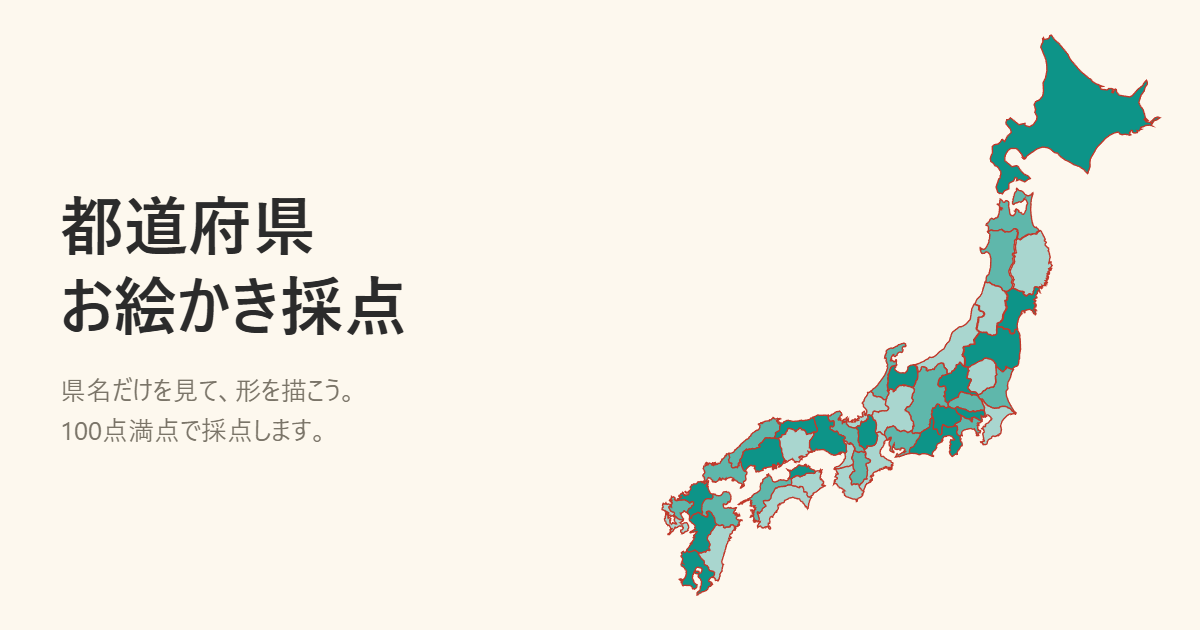
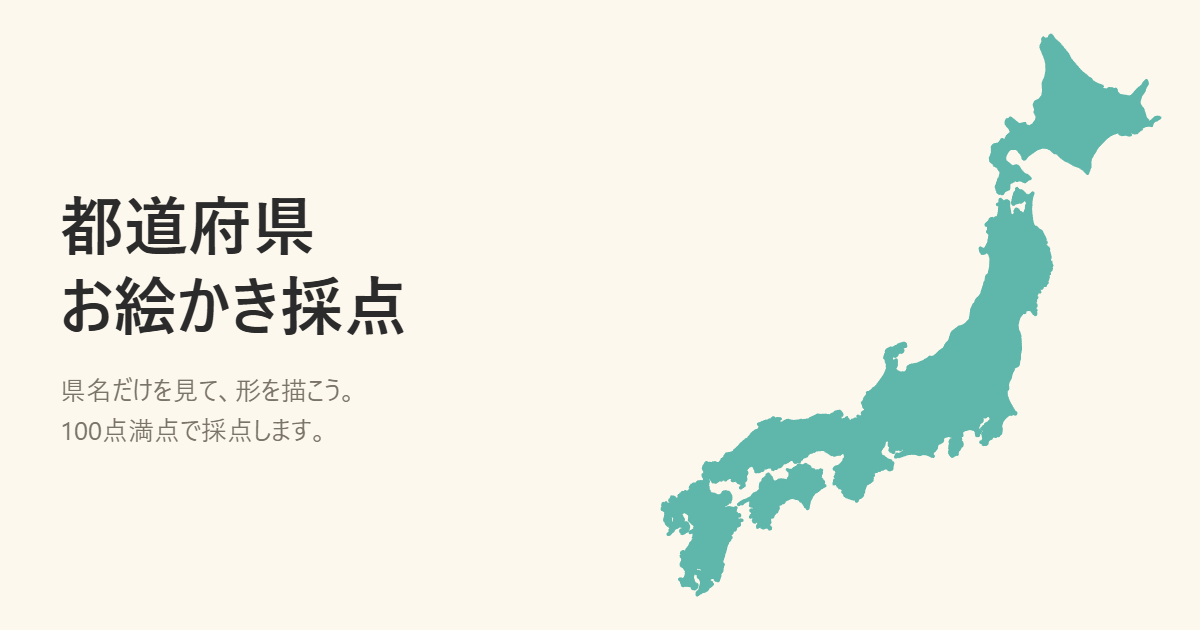
fix: タイトルの日本地図とシェアの見本画像から県境をなくす
県の形が答えにならないよう、1色のシルエットにする。赤い線は県の形と関係のない、ゆがんだ輪にする。

Changed region(s): [[0.555, 0.0603, 0.9867, 0.9349]]

diff --git a/src/ui/titleHero.ts b/src/ui/titleHero.ts
@@ -1,24 +1,32 @@
-// タイトルの絵：日本地図のシルエット（県の形のデータから描く）に、1県だけ赤い手描き風の線がゆっくり描かれて重なる。
-// 数秒ごとに別の県へ。動きを減らす設定の端末では、線を描いたままにする
+// タイトルの絵：日本地図の1色のシルエット（県境・県ごとの色分けはなし。答えにならないように）に、
+// 赤い手描き風の「ぐるっと描いた輪」がゆっくり描かれて重なる。輪の形は県の形と関係のない、ゆがんだ楕円。
+// 数秒ごとに別の場所へ。動きを減らす設定の端末では、輪を描いたままにする
 
 import { prefectures, type Prefecture } from '../data';
 import type { Point } from '../core/score';
 import { fitMainland } from '../share/mapImage';
 
 const OKINAWA = 'JP-47';
-const FILLS = ['#a9d6cf', '#c8e6e1', '#8fcac0'];
+const FILL = '#a9d6cf';
 const LINE = '#c0392b';
 const DRAW_MS = 1800;
 const HOLD_MS = 1600;
 
-/** 手描き風にゆがめた輪郭（なめらかに揺らす） */
-function wobble(points: readonly Point[], seed: number): Point[] {
-  const k = [seed * 1.3, seed * 2.1, seed * 0.7];
-  return points.map(([x, y], i) => {
-    const t = (i / points.length) * Math.PI * 2;
-    const r = 1 + 0.12 * (Math.sin(3 * t + k[0]!) * 0.5 + Math.sin(5 * t + k[1]!) * 0.3 + Math.sin(8 * t + k[2]!) * 0.2);
-    return [x * r, y * r] as Point;
-  });
+/** 県の面積くらいの大きさの、でたらめにゆがんだ輪（km、中心が原点）。少し行き過ぎて終わる */
+function scribble(areaKm2: number, rand: () => number): Point[] {
+  const R = Math.sqrt(areaKm2 / Math.PI) * 1.15;
+  const a = 0.75 + rand() * 0.55;
+  const rot = rand() * Math.PI;
+  const k = [rand() * 6, rand() * 6, rand() * 6];
+  const n = 72, turns = 1.08;
+  const out: Point[] = [];
+  for (let i = 0; i <= n; i++) {
+    const t = (i / n) * Math.PI * 2 * turns;
+    const r = 1 + 0.1 * (Math.sin(2 * t + k[0]!) * 0.5 + Math.sin(3 * t + k[1]!) * 0.3 + Math.sin(5 * t + k[2]!) * 0.2);
+    const x = Math.cos(t) * R * a * r, y = Math.sin(t) * (R / a) * r;
+    out.push([x * Math.cos(rot) - y * Math.sin(rot), x * Math.sin(rot) + y * Math.cos(rot)]);
+  }
+  return out;
 }
 
 export function titleHero(size: number): HTMLCanvasElement {
@@ -31,43 +39,51 @@ export function titleHero(size: number): HTMLCanvasElement {
   c.style.height = `${size}px`;
   c.setAttribute('aria-hidden', 'true');
   const ctx = c.getContext('2d')!;
-  ctx.setTransform(dpr, 0, 0, dpr, 0, 0);
 
   const { toPx } = fitMainland(size, size, size * 0.04);
   const main = prefectures.filter((p) => p.id !== OKINAWA);
-  // 小さすぎる県は線が見えにくいので、ある程度大きい県から選ぶ
+  // 小さすぎる県は輪が見えにくいので、ある程度大きい県の場所から選ぶ
   const candidates = main.filter((p) => p.areaKm2 > 3000);
   const reduce = typeof matchMedia === 'function' && matchMedia('(prefers-reduced-motion: reduce)').matches;
 
-  const base = (): void => {
-    ctx.clearRect(0, 0, size, size);
-    main.forEach((p, i) => {
-      ctx.beginPath();
-      p.points.forEach(([x, y], j) => {
-        const [px, py] = toPx(p.mapX + x, p.mapY + y);
-        if (j) ctx.lineTo(px, py);
-        else ctx.moveTo(px, py);
-      });
-      ctx.closePath();
-      ctx.fillStyle = FILLS[i % FILLS.length]!;
-      ctx.fill();
-      ctx.strokeStyle = '#fdf8ee';
-      ctx.lineWidth = 0.8;
-      ctx.stroke();
+  // シルエットは1回だけ描いて取っておく。県と県のすき間が線に見えないよう、同じ色で縁も塗る
+  const sil = document.createElement('canvas');
+  sil.width = c.width;
+  sil.height = c.height;
+  const sctx = sil.getContext('2d')!;
+  sctx.setTransform(dpr, 0, 0, dpr, 0, 0);
+  sctx.fillStyle = FILL;
+  sctx.strokeStyle = FILL;
+  sctx.lineWidth = 1.2;
+  sctx.lineJoin = 'round';
+  for (const p of main) {
+    sctx.beginPath();
+    p.points.forEach(([x, y], j) => {
+      const [px, py] = toPx(p.mapX + x, p.mapY + y);
+      if (j) sctx.lineTo(px, py);
+      else sctx.moveTo(px, py);
     });
+    sctx.closePath();
+    sctx.fill();
+    sctx.stroke();
+  }
+
+  const base = (): void => {
+    ctx.setTransform(1, 0, 0, 1, 0, 0);
+    ctx.clearRect(0, 0, c.width, c.height);
+    ctx.drawImage(sil, 0, 0);
+    ctx.setTransform(dpr, 0, 0, dpr, 0, 0);
   };
 
   const stroke = (p: Prefecture, line: Point[], upTo: number): void => {
-    // 手描きの線は、本物より少し大きめに見えるよう 1.15 倍にして目立たせる
     const n = Math.max(2, Math.floor(line.length * upTo));
     ctx.beginPath();
     for (let j = 0; j < n; j++) {
       const [x, y] = line[j]!;
-      const [px, py] = toPx(p.mapX + x * 1.15, p.mapY + y * 1.15);
+      const [px, py] = toPx(p.mapX + x, p.mapY + y);
       if (j) ctx.lineTo(px, py);
       else ctx.moveTo(px, py);
     }
-    if (upTo >= 1) ctx.closePath();
     ctx.strokeStyle = LINE;
     ctx.lineWidth = 2.2;
     ctx.lineCap = 'round';
@@ -75,7 +91,6 @@ export function titleHero(size: number): HTMLCanvasElement {
     ctx.stroke();
   };
 
-  let seed = 1;
   let last: Prefecture | undefined;
   const pick = (): Prefecture => {
     let p: Prefecture;
@@ -85,10 +100,12 @@ export function titleHero(size: number): HTMLCanvasElement {
     return p;
   };
 
+  let started = false;
   const cycle = (): void => {
-    if (!c.isConnected && seed > 1) return; // 画面が替わったら止める
+    if (started && !c.isConnected) return; // 画面が替わったら止める
+    started = true;
     const p = pick();
-    const line = wobble(p.points, seed++);
+    const line = scribble(p.areaKm2, Math.random);
     if (reduce) {
       base();
       stroke(p, line, 1);
